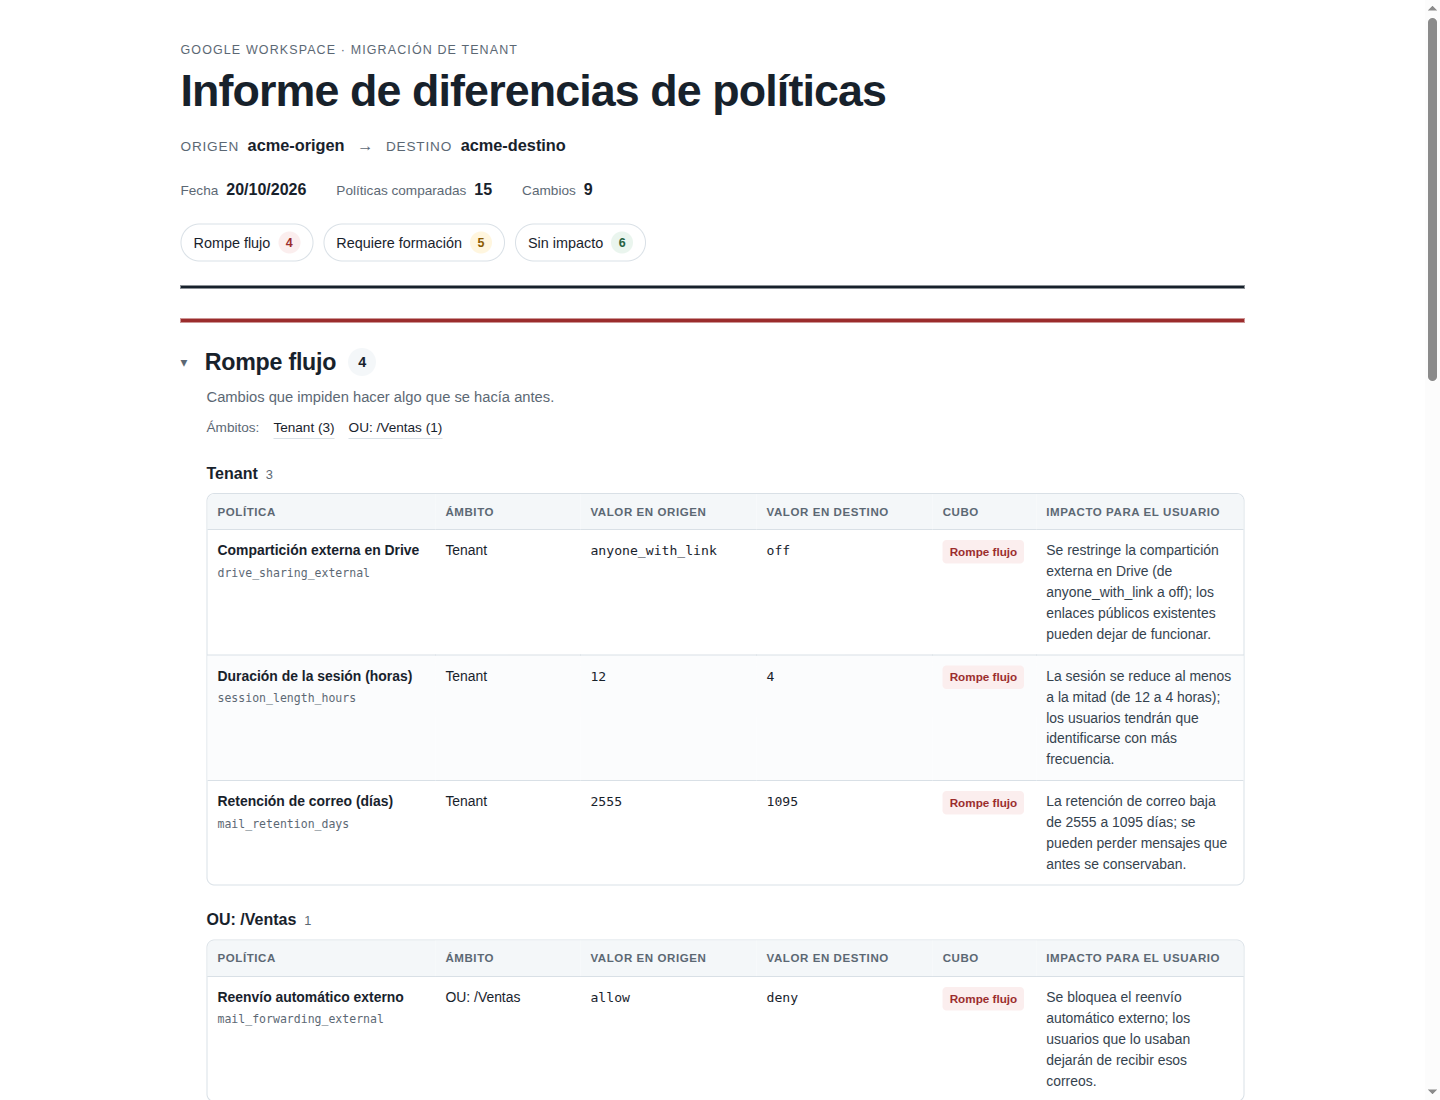
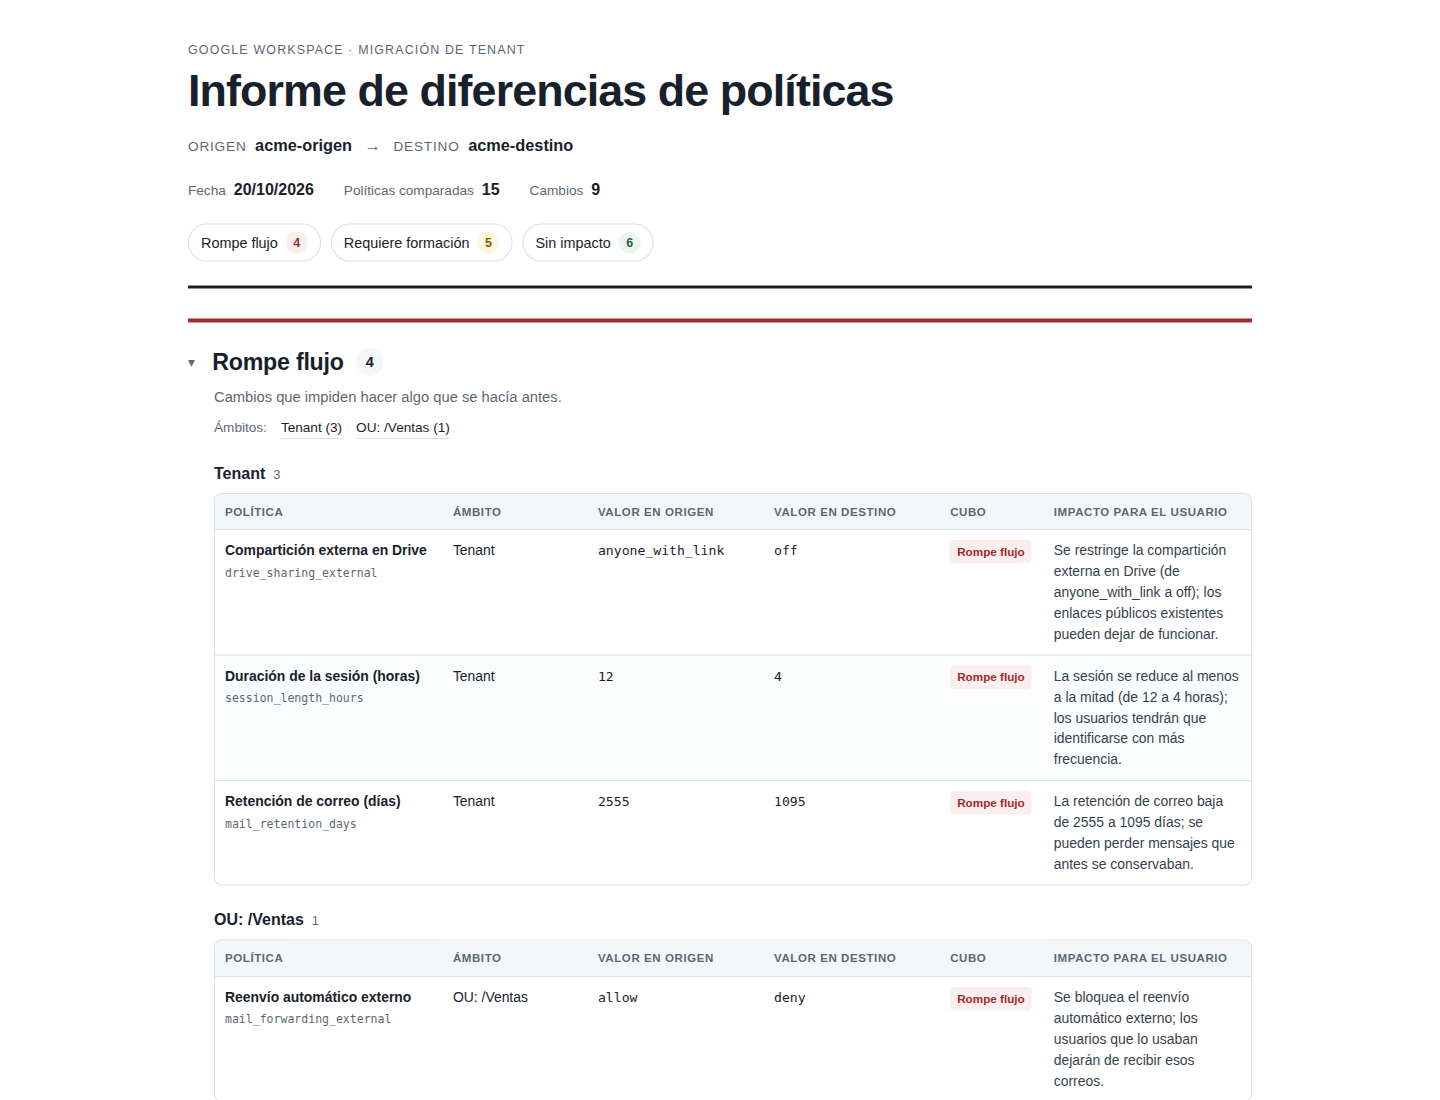
Añadir capturas del informe y ajustar las etiquetas de cubo

diff --git a/src/gam_policy_diff/report.py b/src/gam_policy_diff/report.py
@@ -437,8 +437,8 @@ tbody tr:nth-child(even) { background: #fbfcfd; }
 }
 .value.missing { font-family: inherit; color: var(--muted); font-style: italic; }
 .badge {
-  display: inline-block; padding: 3px 7px; border-radius: 4px;
-  font-size: .73rem; font-weight: 700; white-space: nowrap;
+  display: inline-block; max-width: 100%; padding: 3px 7px; border-radius: 4px;
+  font-size: .73rem; font-weight: 700; white-space: normal;
 }
 .badge-rompe_flujo { color: var(--breaks); background: var(--breaks-soft); }
 .badge-requiere_formacion { color: var(--training); background: var(--training-soft); }
@@ -474,7 +474,7 @@ tbody tr:nth-child(even) { background: #fbfcfd; }
   .value { font-size: 7pt; }
   thead { display: table-header-group; }
   tr { break-inside: avoid; }
-  .badge { border: 1px solid currentColor; white-space: normal; font-size: 6.4pt; }
+  .badge { border: 1px solid currentColor; font-size: 6.4pt; }
   a { color: inherit; text-decoration: none; }
   .report-footer { margin-top: 20px; }
 }

diff --git a/README.md b/README.md
@@ -10,9 +10,11 @@ Ejemplo de migración: una empresa pasa de un tenant con OUs por país a otro co
 
 ## Captura
 
-![Informe de ejemplo generado con los fixtures](docs/informe-demo.png)
+![Vista general del informe de ejemplo](docs/informe-demo.png)
 
-Informe generado con los fixtures ficticios de `acme-origen` y `acme-destino`. El informe no contiene datos reales.
+![Detalle del bloque Requiere formación](docs/informe-demo-detalle.png)
+
+Capturas generadas con los fixtures ficticios de `acme-origen` y `acme-destino`. No contienen datos reales.
 
 ## Instalación y uso
 
